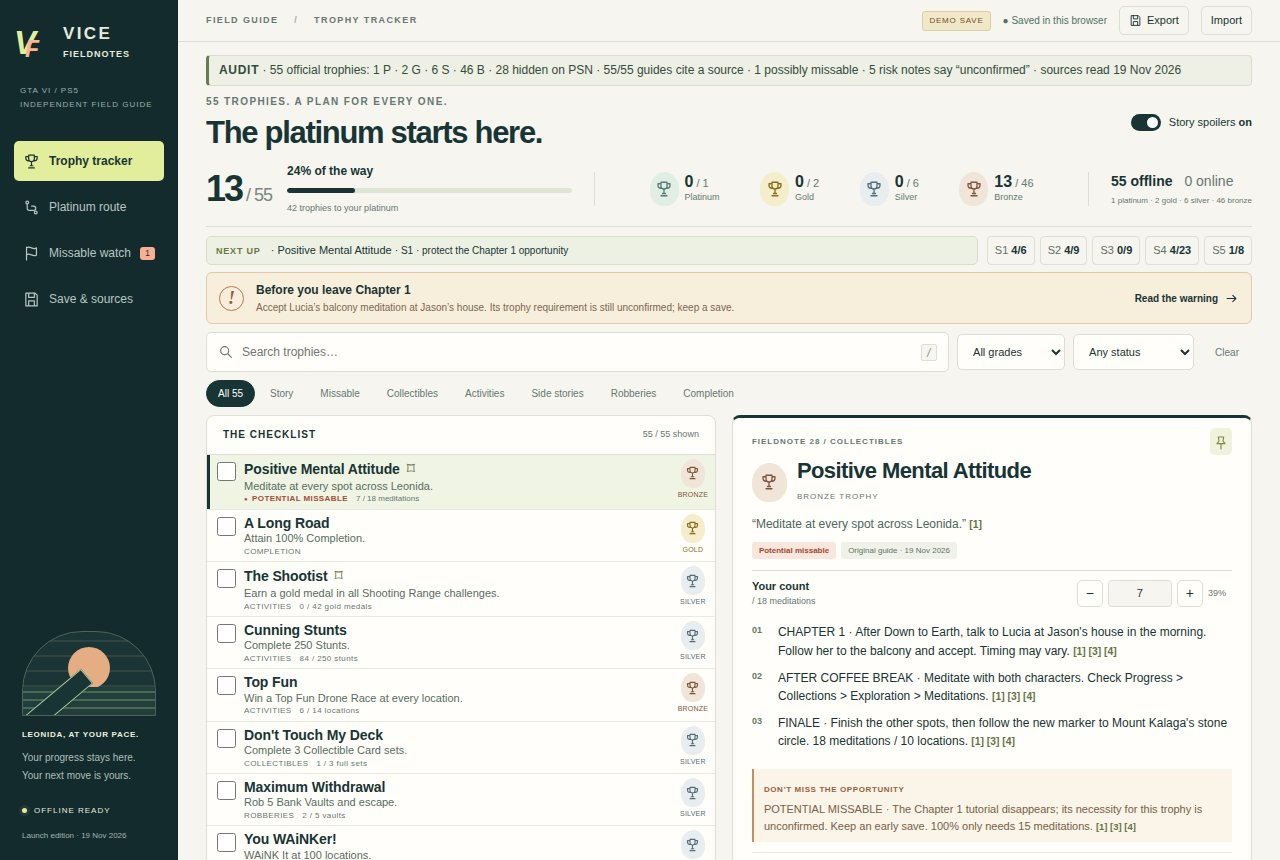
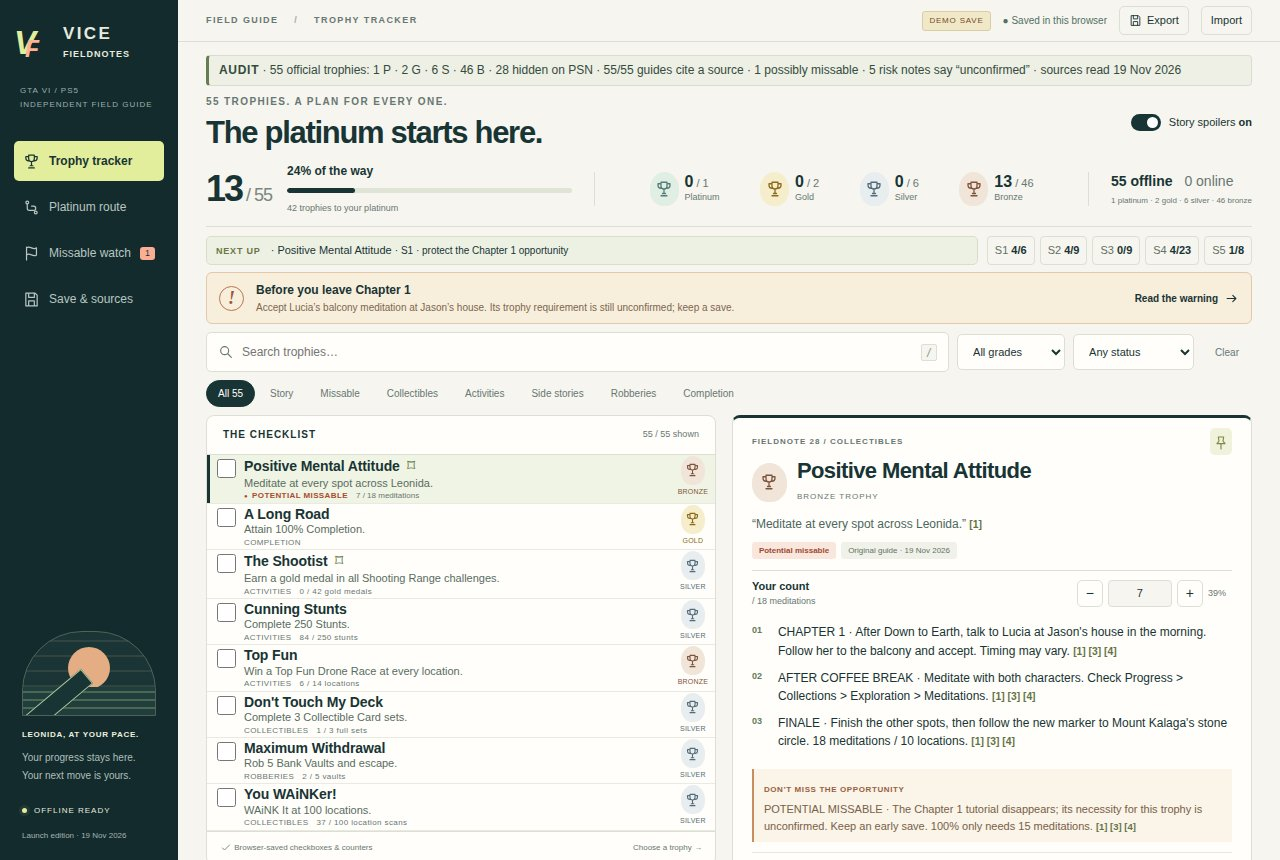
Keep trophy labels and tracker text readable

Changed region(s): [[0.1562, 0.514, 0.4062, 1.0], [0.5, 0.5442, 0.5625, 0.9977]]

diff --git a/app/style.css b/app/style.css
@@ -315,6 +315,7 @@
   .trophy-chips { display:flex; flex-wrap:wrap; gap:3px; margin-top:4px; }
   .trophy-chip { display:inline-flex; align-items:center; gap:3px; max-width:100%; padding:2px 4px; border:1px solid #e0e4d8; border-radius:3px; background:#f8f8f2; color:#4e6256; font-size:10px; line-height:1.3; }
   .trophy-chip i { color:#7c8656; font-size:8px; font-style:normal; }
+  .trophy-chip b { min-width:0; overflow-wrap:anywhere; padding-inline-end:1px; }
   .trophy-chip.earned { background:#e5eedf; border-color:#cfdcc4; color:#294d3d; }
   .trophy-chip.gold { border-bottom:2px solid #c7a64c; }
   .trophy-chip.silver { border-bottom:2px solid #91a5aa; }
@@ -341,6 +342,8 @@
   .row-meta { margin-top:1px; }
   .source-entry a { overflow-wrap:anywhere; }
   @media(min-width:781px) {
+    #toast { top:4px; bottom:auto; padding-block:7px; }
+    .complete-button { padding-block:6px; }
     .tracker-cover { flex-wrap:nowrap; }
     .next-up.compact { min-width:0; }
     .next-up.compact>span { font-size:10px; }
@@ -364,6 +367,11 @@
     .route-card>div { min-width:0; flex:1; }
     .route-links .source-entry span { display:none; }
     .route-links .source-entry a { font-size:9px; }
+  }
+  @media(min-width:1101px) and (max-height:900px) {
+    .trophy-list { height:376px; }
+    .trophy-row { min-height:46px; padding-block:1px; }
+    .trophy-row>.medal { margin-bottom:3px; }
   }
   @media(max-width:1100px) { .tracker-cover { flex-wrap:wrap; }.stage-chips { order:2; }.audit-strip { font-size:10px; }.guide-scroll { max-height:450px; } }
   @media(max-width:780px) { .tracker-cover { align-items:stretch; }.next-up.compact { white-space:normal; }.stage-chips { width:100%; justify-content:space-between; }.stage-chips>span { padding:4px; font-size:8px; }.chapter-watch { grid-template-columns:repeat(2,1fr); }.audit-strip { font-size:10px; } }
